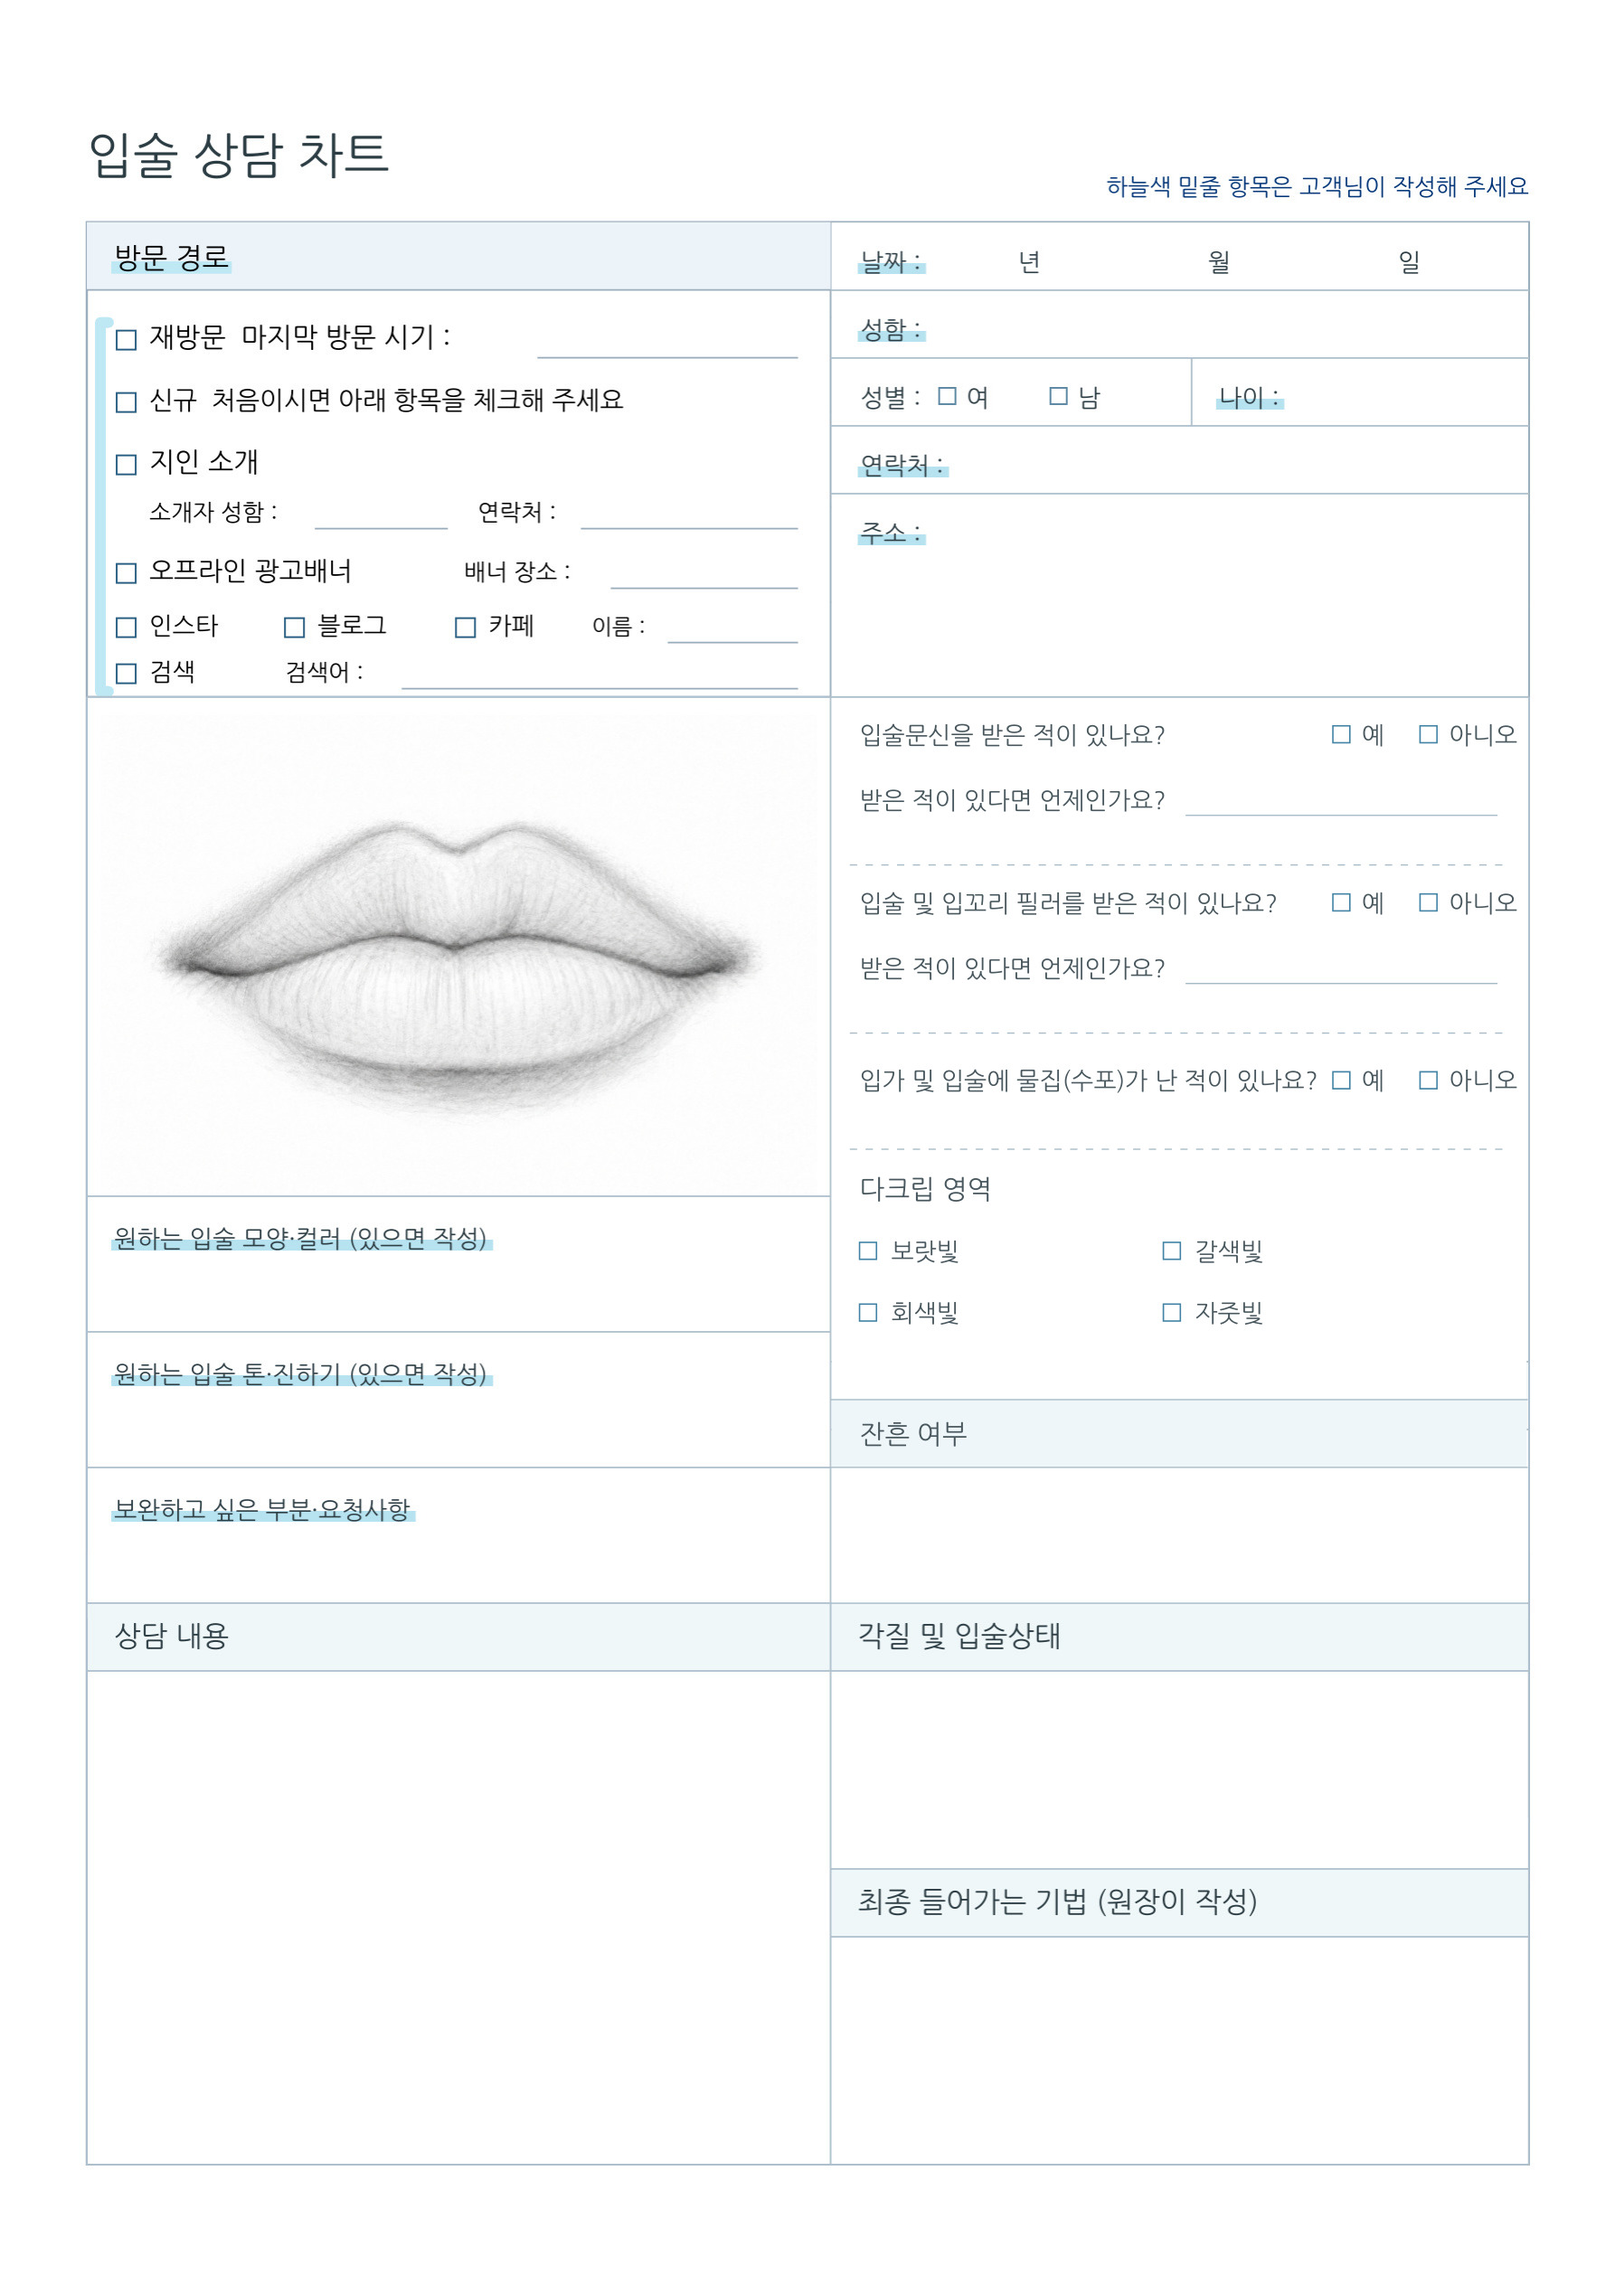
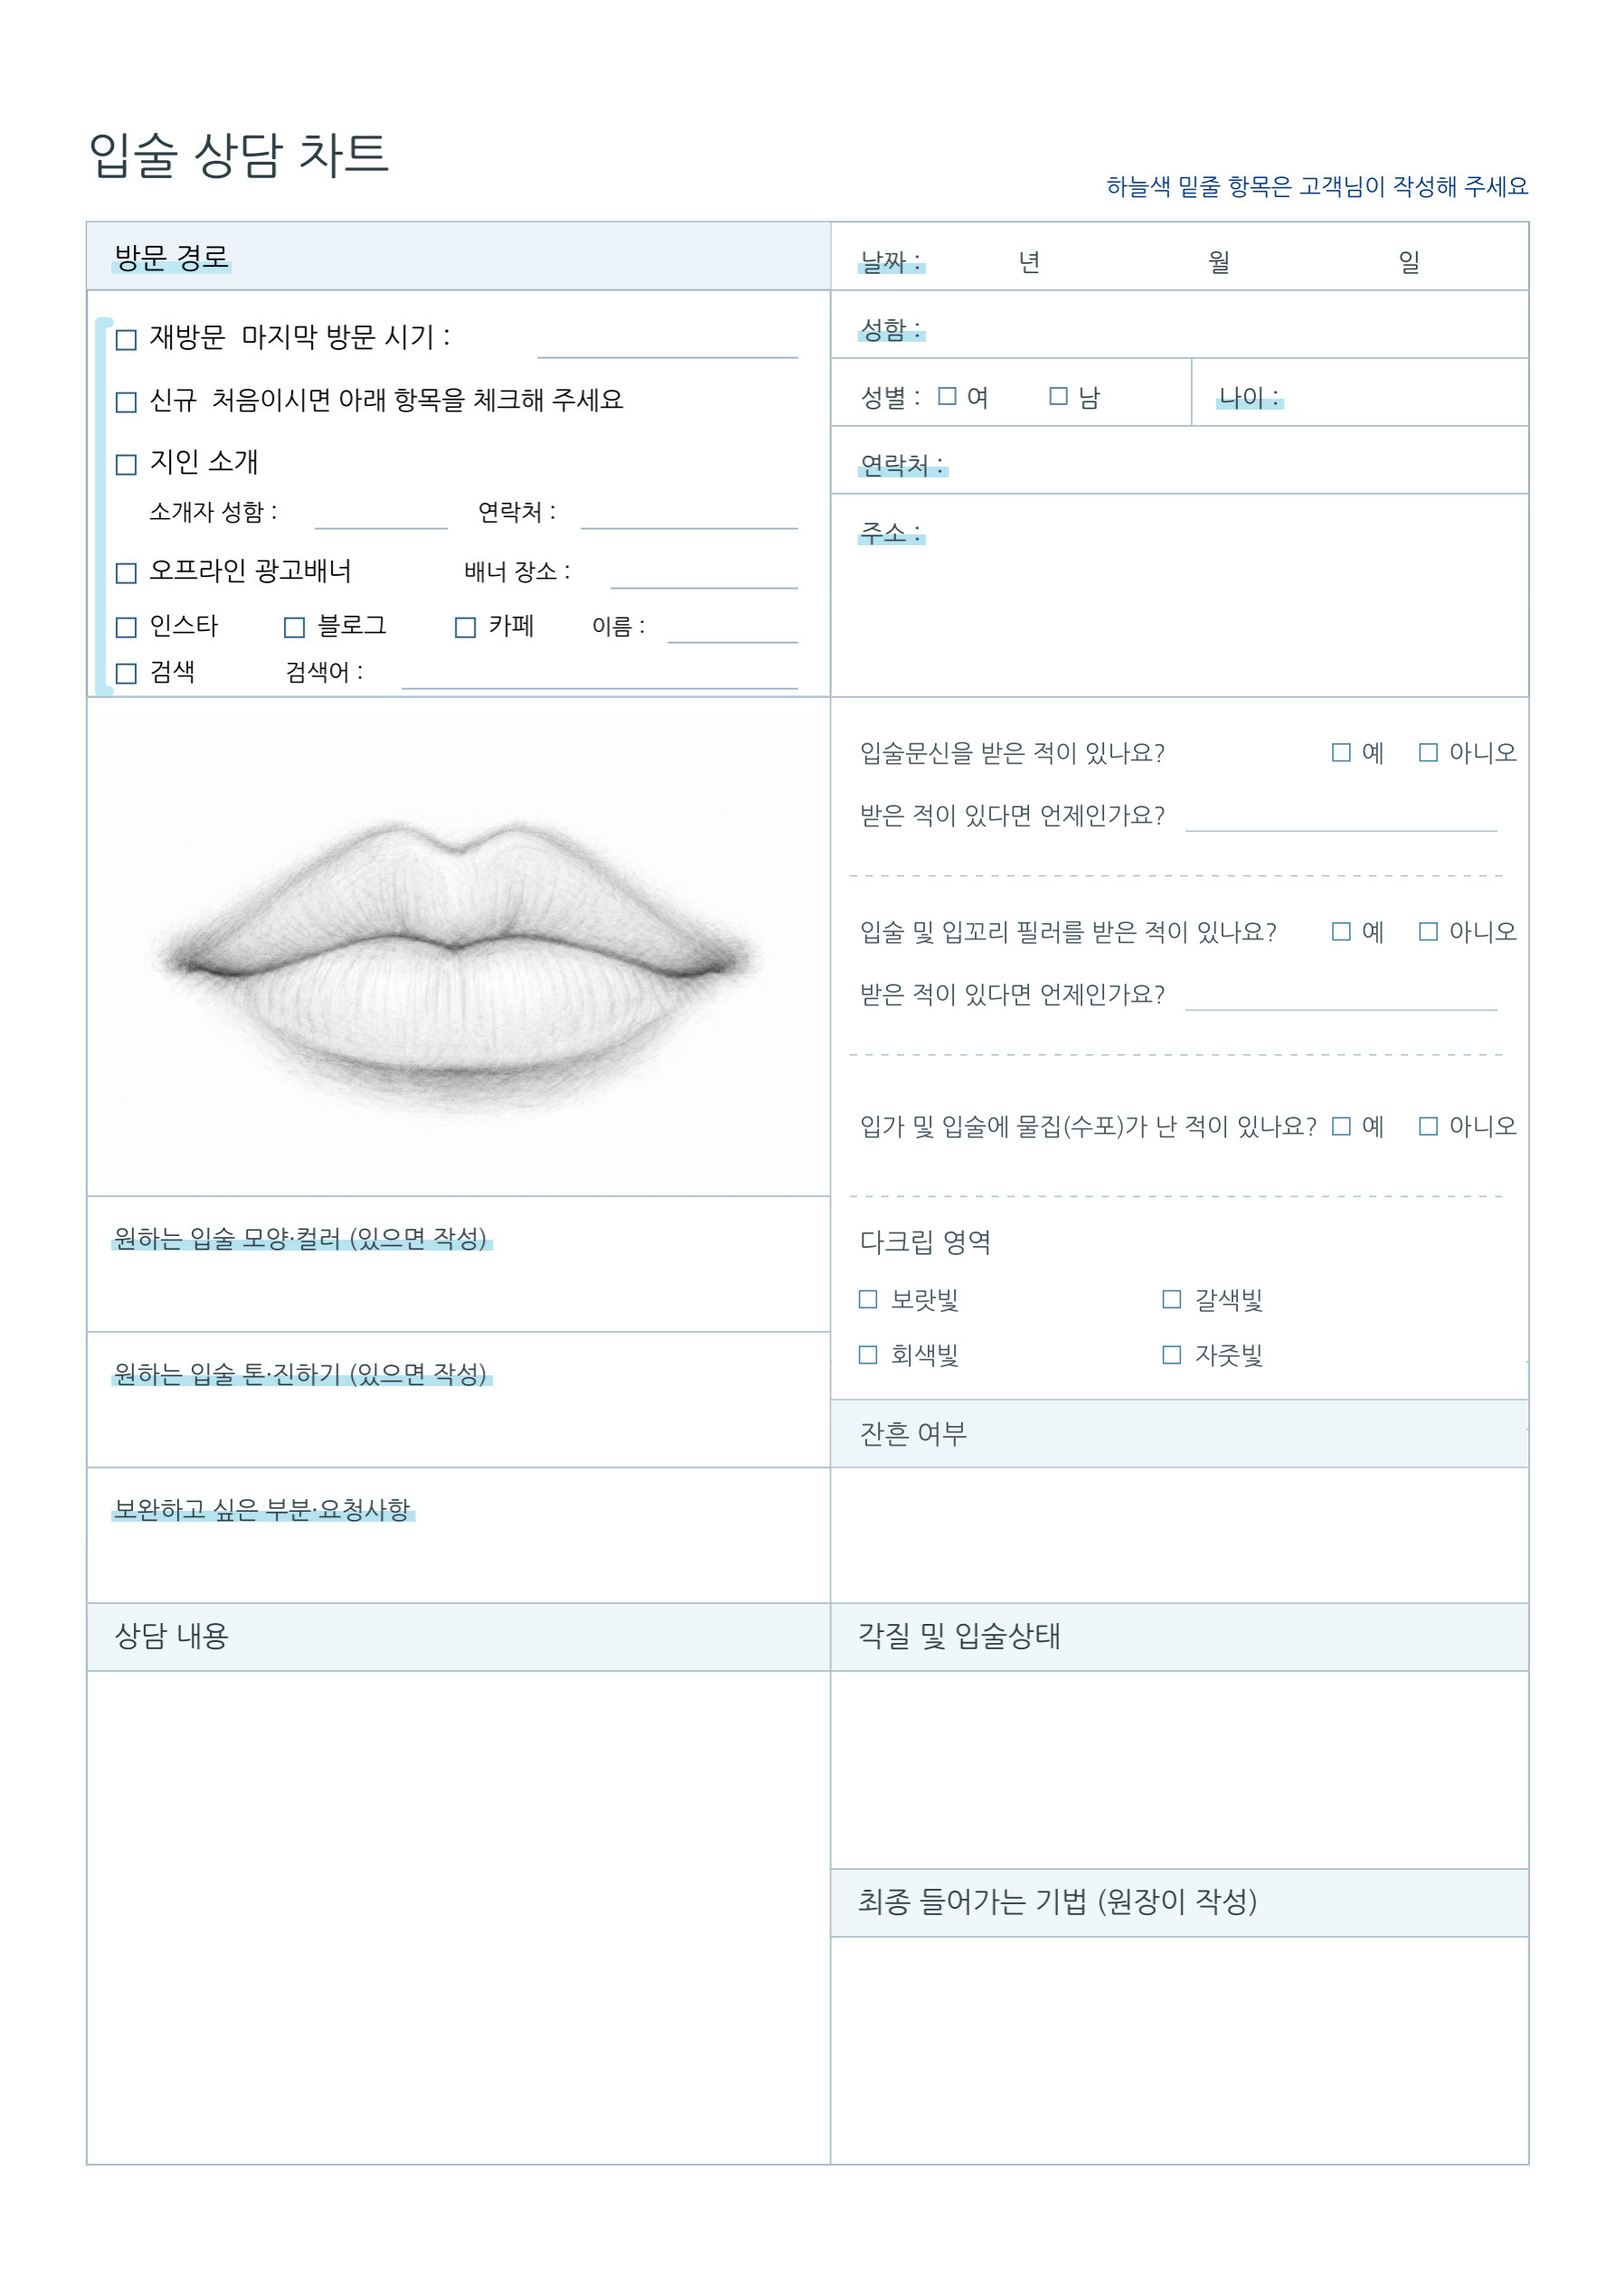
Align dark-lip divider with lip picture and balance all checklist vertical spacing

diff --git a/H3/chart.html b/H3/chart.html
@@ -1,5 +1,5 @@
 <!doctype html><html lang="ko"><head><meta charset="utf-8"><meta name="viewport" content="width=device-width,initial-scale=1,viewport-fit=cover"><title>상담차트 · 화장수리</title><style>*{box-sizing:border-box}body{margin:0;background:#edf5fa;color:#283b4b;font-family:-apple-system,BlinkMacSystemFont,"Apple SD Gothic Neo",sans-serif}header{position:sticky;top:0;z-index:1;background:#fff;border-bottom:1px solid #dce8ef;padding:12px 16px;display:flex;gap:12px;align-items:center;flex-wrap:wrap}header a,header button{font:inherit;font-size:13px;color:#246b98;background:#edf6fc;border:0;border-radius:9px;padding:10px 12px;text-decoration:none}h1{font-size:16px;flex:1;margin:0;min-width:120px}main{max-width:850px;margin:18px auto;padding:0 10px}.sheet{display:block;width:100%;height:auto;background:#fff;box-shadow:0 6px 28px #243e591a}p{font-size:13px;color:#567185;line-height:1.6}button{cursor:pointer}@page{size:A4;margin:0}@media print{header,.help{display:none}body{background:#fff}main{margin:0;padding:0;max-width:none}.sheet{width:210mm;max-height:297mm;box-shadow:none;object-fit:contain}}</style></head><body><header><a href="./index.html">‹ 홈</a><h1 id="chartTitle">상담차트</h1><a id="downloadChart" download>PDF 저장</a><button type="button" id="printChart">인쇄</button></header><main><p class="help">확대해서 확인하거나 PDF로 저장하고 인쇄할 수 있어요.</p><img class="sheet" id="chartImage" alt=""><p id="chartError" hidden>차트를 찾을 수 없습니다. 홈에서 다시 선택해 주세요.</p></main><script>
 const charts={brow:'눈썹 상담차트',scalp:'두피 · 헤어라인 상담차트',lip:'입술 상담차트',eyeliner:'아이라인 상담차트'};
 const type=new URLSearchParams(location.search).get('type');
-if(Object.hasOwn(charts,type)){document.title=charts[type]+' · 화장수리';document.getElementById('chartTitle').textContent=charts[type];const img=document.getElementById('chartImage');img.alt=charts[type];img.src='./charts/'+type+'.jpg'+(type==='lip'?'?v=lip-layout-20261028':'');const link=document.getElementById('downloadChart');link.href='./charts/'+type+'.pdf'+(type==='lip'?'?v=lip-layout-20261028':'');link.download=type+'-consultation-chart.pdf';document.getElementById('printChart').onclick=()=>{if(img.complete&&img.naturalWidth)window.print();else img.addEventListener('load',()=>window.print(),{once:true});};}else{document.getElementById('chartImage').hidden=true;document.getElementById('downloadChart').hidden=true;document.getElementById('printChart').hidden=true;document.getElementById('chartError').hidden=false;}
+if(Object.hasOwn(charts,type)){document.title=charts[type]+' · 화장수리';document.getElementById('chartTitle').textContent=charts[type];const img=document.getElementById('chartImage');img.alt=charts[type];img.src='./charts/'+type+'.jpg'+(type==='lip'?'?v=lip-balanced-spacing-20261028':'');const link=document.getElementById('downloadChart');link.href='./charts/'+type+'.pdf'+(type==='lip'?'?v=lip-balanced-spacing-20261028':'');link.download=type+'-consultation-chart.pdf';document.getElementById('printChart').onclick=()=>{if(img.complete&&img.naturalWidth)window.print();else img.addEventListener('load',()=>window.print(),{once:true});};}else{document.getElementById('chartImage').hidden=true;document.getElementById('downloadChart').hidden=true;document.getElementById('printChart').hidden=true;document.getElementById('chartError').hidden=false;}
 </script></body></html>
